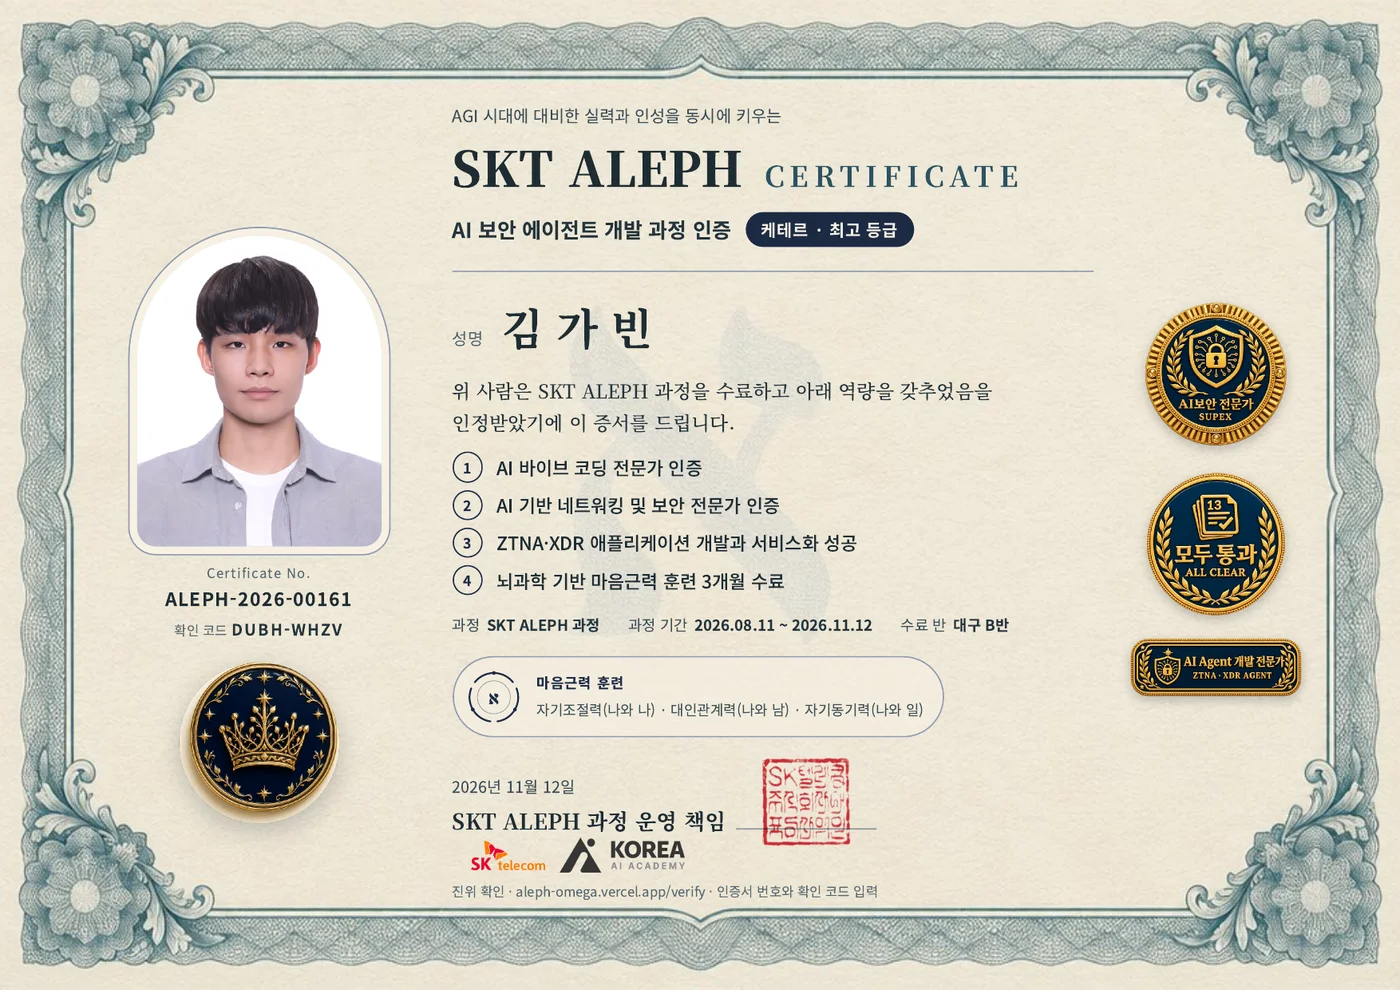
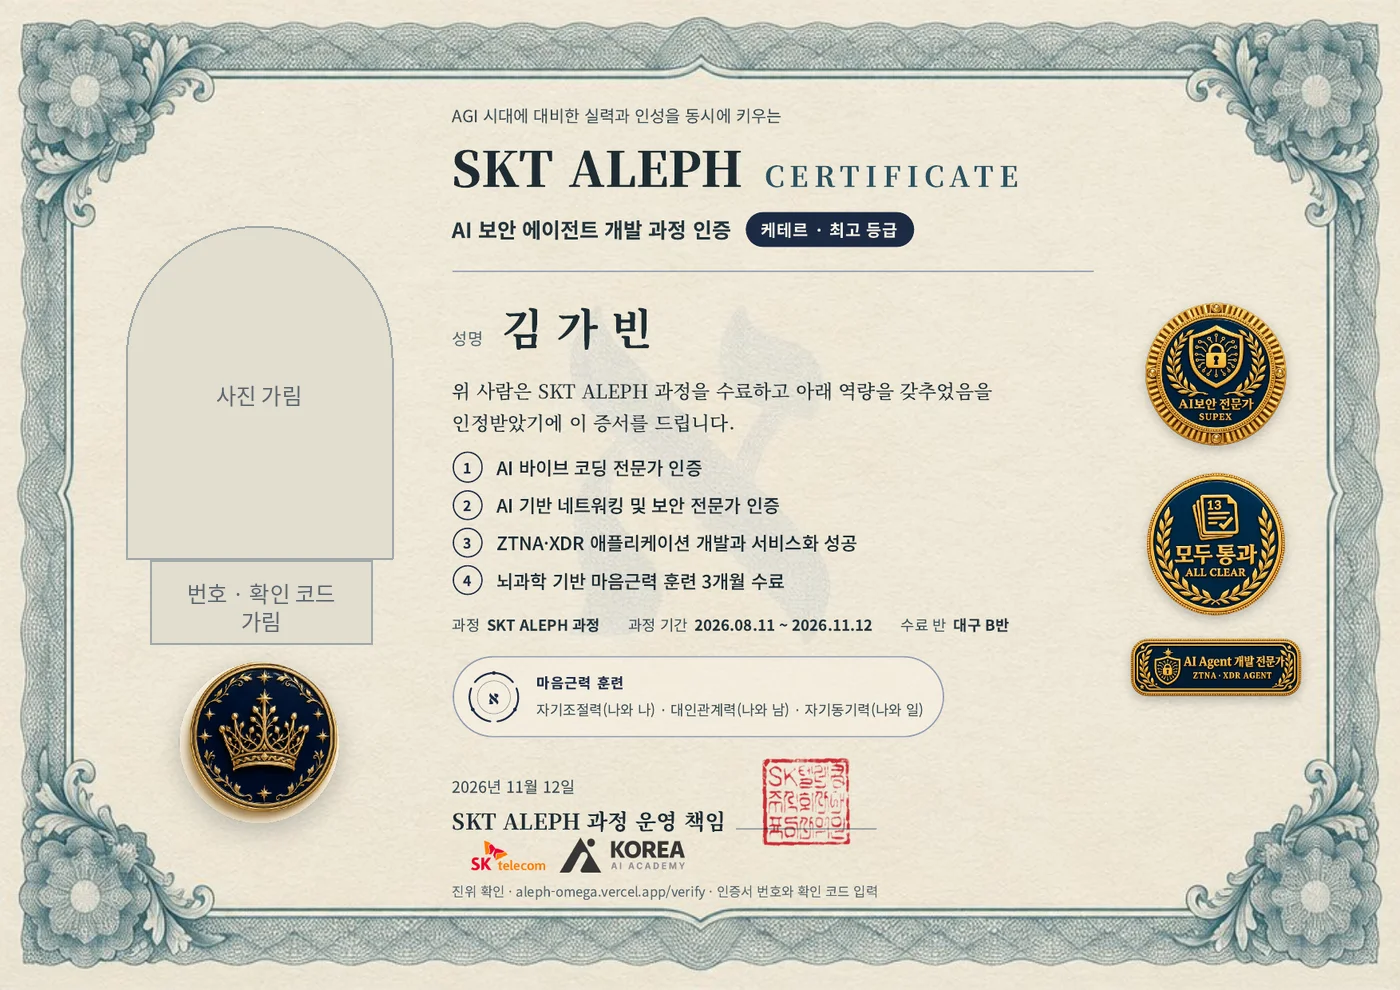
수료증의 사진·인증서 번호·확인 코드 가림
Claude-Session: https://claude.ai/code/session_018QeCp3bJfqegzp7HavkFz8

Changed region(s): [[0.0921, 0.2121, 0.3071, 0.6667]]

diff --git a/index.html b/index.html
@@ -417,7 +417,7 @@
         </div>
 
         <article class="aleph-note-card aleph-cert">
-          <a class="aleph-cert-img" href="assets/aleph-certificate.webp" target="_blank" rel="noopener"><img src="assets/aleph-certificate.webp" width="1400" height="990" alt="SKT ALEPH 수료증: 김가빈, 2026.08.11~2026.11.12, 대구 B반, 2026년 11월 12일 발급" loading="lazy" decoding="async" /></a>
+          <a class="aleph-cert-img" href="assets/aleph-certificate.webp" target="_blank" rel="noopener"><img src="assets/aleph-certificate.webp" width="1400" height="990" alt="SKT ALEPH 수료증: 김가빈, 2026.08.11~2026.11.12, 대구 B반, 2026년 11월 12일 발급(사진과 인증서 번호는 가림)" loading="lazy" decoding="async" /></a>
           <div>
             <div class="aleph-kicker">Certificate</div>
             <h3>SKT ALEPH 과정 수료증</h3>
@@ -428,7 +428,7 @@
               <li>ZTNA·XDR 애플리케이션 개발과 서비스화 성공</li>
               <li>뇌과학 기반 마음근력 훈련 3개월 수료</li>
             </ul>
-            <p class="work-source">수료증 아래의 인증서 번호와 확인 코드로 발급처(aleph-omega.vercel.app/verify)에서 진위를 확인할 수 있습니다.</p>
+            <p class="work-source">사진, 인증서 번호, 확인 코드는 가렸습니다. 원본은 따로 보여드릴 수 있습니다.</p>
           </div>
         </article>
 
